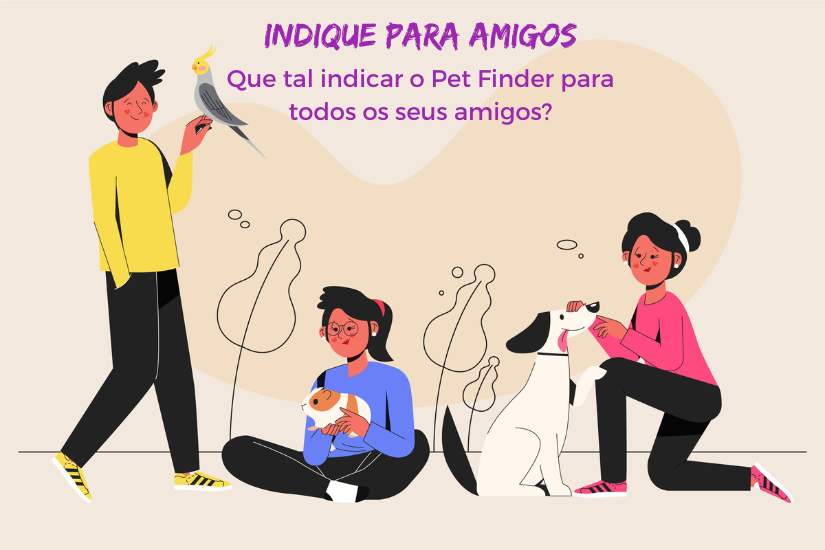
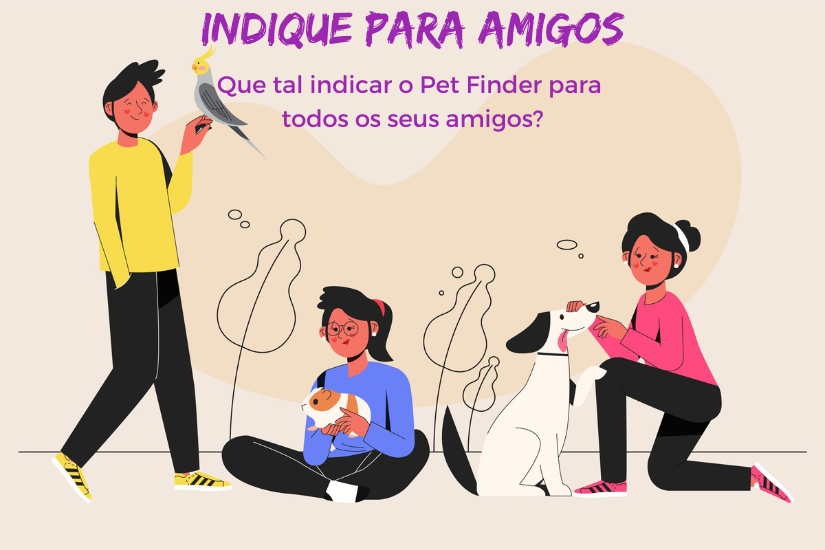
Ajustando app bar da home screen

Changed region(s): [[0.2727, 0.1236, 0.7576, 0.2473], [0.2424, 0.0, 0.7576, 0.0927]]

diff --git a/lib/screens/home.screen.dart b/lib/screens/home.screen.dart
@@ -10,13 +10,26 @@ class HomePage extends StatelessWidget {
   Widget build(BuildContext context) {
     return Scaffold(
       appBar: AppBar(
-        leading: Image.asset("assets/logo_pet.png"),
-        title: const Text(
-          "Pet Finder",
-          style: TextStyle(color: Colors.purple, fontSize: 40),
+        automaticallyImplyLeading: false,
+        title: Row(
+          children: [
+            Image.asset(
+              "assets/logo_pet.png",
+              width: 60,
+            ),
+            const SizedBox(
+              width: 8,
+            ),
+            const Text(
+              "Pet Finder",
+              style: TextStyle(
+                color: Colors.purple,
+                fontSize: 30,
+              ),
+            ),
+          ],
         ),
         elevation: 0,
-        centerTitle: false,
         backgroundColor: Colors.transparent,
         actions: <Widget>[
           TextButton(
@@ -91,7 +104,7 @@ class HomePage extends StatelessWidget {
             height: 200,
           ),
           const SizedBox(
-            height: 16,
+            height: 8,
           ),
           const Text(
             "Adicione um animalzinho.",
@@ -109,7 +122,7 @@ class HomePage extends StatelessWidget {
             ),
           ),
           const SizedBox(
-            height: 16,
+            height: 32,
           ),
           Container(
             decoration: const BoxDecoration(

diff --git a/lib/screens/notifications.screen.dart b/lib/screens/notifications.screen.dart
@@ -20,13 +20,14 @@ class _NotificationsPageState extends State<NotificationsPage> {
   Widget build(BuildContext context) {
     return Scaffold(
       appBar: AppBar(
+        centerTitle: true,
         automaticallyImplyLeading: false,
         title: const Text(
           'Notificações',
           style: TextStyle(
             color: Colors.black,
           ),
-        ), // Título da AppBar
+        ),
         backgroundColor: Colors.white.withOpacity(0),
         elevation: 0,
       ),
